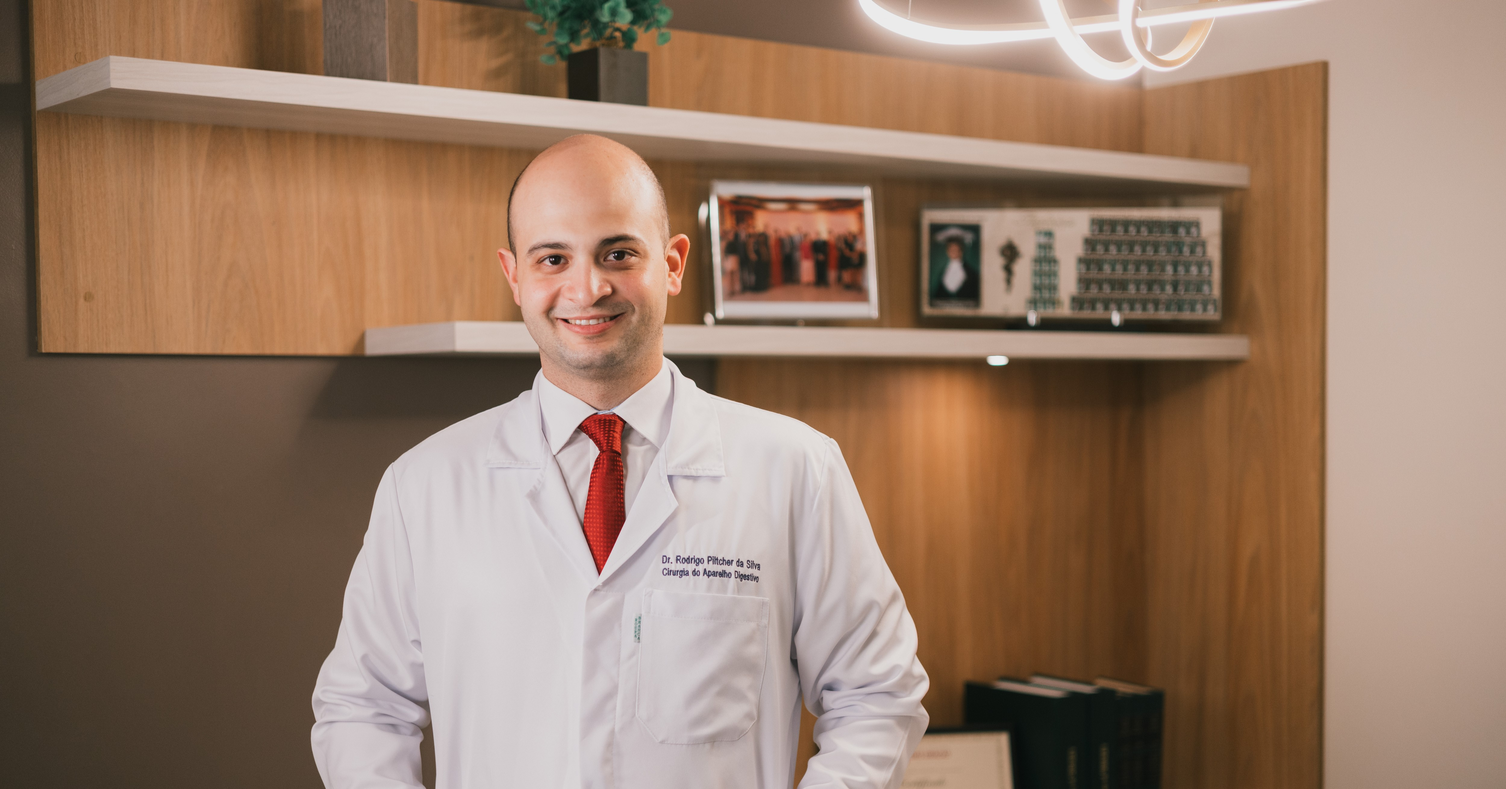
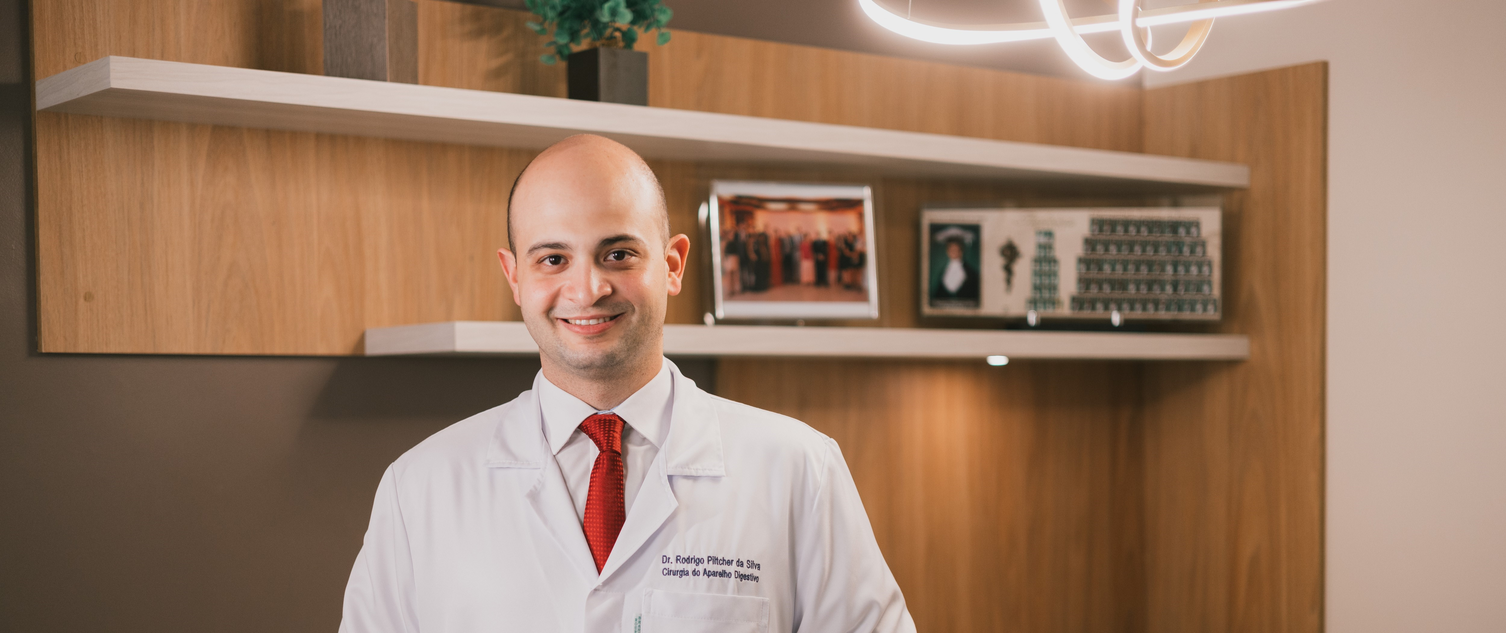
stopped at img3, pos content 2

diff --git a/resources/js/app.js b/resources/js/app.js
@@ -1,3 +1,19 @@
 import './bootstrap';
 
-console.log('teste');
+$(document).ready(function () {
+    $("#cirurOncoDigest").hide();
+    $("#herniaAbd").hide();
+    $("#robotico").show()
+    $("#cirurApaDigest").hide();
+})
+ 
+$('.grid-item').click(function () {
+    $("#cirurOncoDigest").hide();
+    $("#herniaAbd").hide();
+    $("#robotico").hide()
+    $("#cirurApaDigest").hide();
+    
+    let idClicado = $(this).attr('for');
+
+    $('#'+idClicado).fadeIn();
+})

diff --git a/vite.config.js b/vite.config.js
@@ -4,7 +4,10 @@ import laravel from 'laravel-vite-plugin';
 export default defineConfig({
     plugins: [
         laravel({
-            input: ['resources/css/app.css', 'resources/js/app.js'],
+            input: [
+            'resources/css/app.css', 
+            'resources/js/app.js',
+            ],
             refresh: true,
         }),
     ],

diff --git a/resources/views/mainView.blade.php b/resources/views/mainView.blade.php
@@ -4,27 +4,244 @@
 
 @section('fotos-passando')
 
-    <div class="container-fluid" style="border: 1px solid blue">
-        <div id="mainSlider" class="carousel slide" data-ride="carousel">
-            <ol class="carousel-indicators">
-                <li data-target="#mainSlider" data-slide-to="0" class="active"></li>
-                <li data-target="#mainSlider" data-slide-to="1"></li>
-                <li data-target="#mainSlider" data-slide-to="2"></li>
-                <li data-target="#mainSlider" data-slide-to="3"></li>
-                <li data-target="#mainSlider" data-slide-to="4"></li>
-                <li data-target="#mainSlider" data-slide-to="5"></li>
-            </ol>
+<div id="carouselExampleControls" id="myCarousel" class="carousel slide" data-bs-ride="carousel" data-bs-interval="7000">
+  <div class="carousel-inner">
 
-            <div class="carousel-inner">
-                <div class="carousel-item active">
-                    <img class="d-block w-100 " src="{{ Vite::asset('resources/images/fotospassando/img5') }}" alt="">
-                </div>
-            </div>
-        </div>
+    <div class="carousel-item">
+      <img class="d-block w-100" src="{{ Vite::asset('resources/images/fotospassando/cirRob1.png') }}" alt="First slide">
     </div>
+
+    <div class="carousel-item active">
+      <img class="d-block w-100" src="{{ Vite::asset('resources/images/fotospassando/img3edit.jpg') }}" alt="Second slide">
+    </div>
+
+    <div class="carousel-item">
+      <img class="d-block w-100" src="{{ Vite::asset('resources/images/fotospassando/geralRob.jpg') }}" alt="Third slide">
+    </div>
+
+    <div class="carousel-item">
+      <img class="d-block w-100" src="{{ Vite::asset('resources/images/fotospassando/labar2.jpg') }}" alt="Forth slide">
+    </div>
+
+    <div class="carousel-item">
+      <img class="d-block w-100" src="{{ Vite::asset('resources/images/fotospassando/img8edit.jpg') }}" alt="Fifth slide">
+    </div>
+
+    <div class="carousel-item">
+      <img class="d-block w-100" src="{{ Vite::asset('resources/images/fotospassando/labaro.jpg') }}" alt="Sixth slide">
+    </div>
+
+  </div>
+
+  <button class="carousel-control-prev" data-bs-target="#carouselExampleControls" type="button" data-bs-slide="prev">
+    <span class="carousel-control-prev-icon" aria-hidden="true"></span>
+    <span class="sr-only">Previous</span>
+  </button>
+
+  <button class="carousel-control-next" data-bs-target="#carouselExampleControls" type="button" data-bs-slide="next">
+    <span class="carousel-control-next-icon" aria-hidden="true"></span>
+    <span class="sr-only">Next</span>
+  </button>
+</div>
 
 @endsection
 
+@section('primeiro-conteudo')
+  <div class="shadow">
+    <div class="general-content container">
+        <div class="content">
+          <img src="{{ Vite::asset('resources/images/fotospassando/flatimg2.jpg') }}" alt="foto-dr.rodrigo">
+          <div class="text">
+            <p class="title-1-content">Dr. Rodrigo Piltcher</p>
+            <p>Lorem Ipsum is simply dummy text of the printing and typesetting industry. Lorem Ipsum has been the industry's standard dummy text ever since the 1500s, when an unknown printer took a galley of type and scrambled it to make a type specimen book. It has survived not only five centuries, but also the leap into electronic typesetting, remaining essentially unchanged. It was popularised in the 1960s with the release of Letraset sheets containing Lorem Ipsum passages, and more recently with desktop publishing software like Aldus PageMaker including versions of Lorem Ipsum.</p>
+            </br>
+            <p>Lorem Ipsum is simply dummy text of the printing and typesetting industry. Lorem Ipsum has been the industry's standard dummy text ever since the 1500s, when an unknown printer took a galley of type and scrambled it to make a type specimen book. It has survived not only five centuries, but also the leap into electronic typesetting, remaining essentially unchanged. It was popularised in the 1960s with the release of Letraset sheets containing Lorem Ipsum passages, and more recently with desktop publishing software like Aldus PageMaker including versions of Lorem Ipsum.</p>
+          </div>
+        </div>
+    </div>
+  </div>
+@endsection
+
+@section('primeira-foto')
+  <div class="general-content content-2">
+      <img src="{{ Vite::asset('resources/images/fotospassando/img6.jpg') }}" alt="foto-dr.rodrigo">
+  </div>
+@endsection
+
+@section('segundo-conteudo')
+  <div>
+    <div class="general-content container">
+        <p class="title-1-content espec">Especialidades</p>
+        <div class="grid-center">
+          <div class="content-second grid">
+            <img for="cirurApaDigest" class="grid-item" src="{{ Vite::asset('resources/images/aparelhodigest.png') }}" alt="aparelho-digestivo">
+            <img for="cirurOncoDigest" class="grid-item" src="{{ Vite::asset('resources/images/oncolog.png') }}" alt="aparelho-digestivo">
+            <img for="herniaAbd" class="grid-item" src="{{ Vite::asset('resources/images/hernia.png') }}" alt="aparelho-digestivo">
+            <img for="robotico" class="grid-item" src="{{ Vite::asset('resources/images/robotica.png') }}" alt="aparelho-digestivo">
+          </div>
+          <div id="textos">
+              <div id="cirurApaDigest" class="text-2">
+                <p class="title-2-content">Cirurgia do aparelho digestivo</p>
+                <p>Lorem Ipsum is simply dummy text of the printing and typesetting industry. Lorem Ipsum has been the industry's standard dummy text ever since the 1500s, when an unknown printer took a galley of type and scrambled it to make a type specimen book. It has survived not only five centuries, but also the leap into electronic typesetting, remaining essentially unchanged. It was popularised in the 1960s with the release of Letraset sheets containing Lorem Ipsum passages, and more recently with desktop publishing software like Aldus PageMaker including versions of Lorem Ipsum.</p>
+                </br>
+                <p>Lorem Ipsum is simply dummy text of the printing and typesetting industry. Lorem Ipsum has been the industry's standard dummy text ever since the 1500s, when an unknown printer took a galley of type and scrambled it to make a type specimen book. It has survived not only five centuries, but also the leap into electronic typesetting, remaining essentially unchanged. It was popularised in the 1960s with the release of Letraset sheets containing Lorem Ipsum passages, and more recently with desktop publishing software like Aldus PageMaker including versions of Lorem Ipsum.</p>
+              </div>
+              <div id="cirurOncoDigest" class="text-2">
+                <p class="title-2-content">Cirurgia oncológica digestiva</p>
+                <p>Lorem Ipsum is simply dummy text of the printing and typesetting industry. Lorem Ipsum has been the industry's standard dummy text ever since the 1500s, when an unknown printer took a galley of type and scrambled it to make a type specimen book. It has survived not only five centuries, but also the leap into electronic typesetting, remaining essentially unchanged. It was popularised in the 1960s with the release of Letraset sheets containing Lorem Ipsum passages, and more recently with desktop publishing software like Aldus PageMaker including versions of Lorem Ipsum.</p>
+                </br>
+                <p>Lorem Ipsum is simply dummy text of the printing and typesetting industry. Lorem Ipsum has been the industry's standard dummy text ever since the 1500s, when an unknown printer took a galley of type and scrambled it to make a type specimen book. It has survived not only five centuries, but also the leap into electronic typesetting, remaining essentially unchanged. It was popularised in the 1960s with the release of Letraset sheets containing Lorem Ipsum passages, and more recently with desktop publishing software like Aldus PageMaker including versions of Lorem Ipsum.</p>
+              </div>
+              <div id="herniaAbd" class="text-2">
+                <p class="title-2-content">Hérnias abdominais</p>
+                <p>Lorem Ipsum is simply dummy text of the printing and typesetting industry. Lorem Ipsum has been the industry's standard dummy text ever since the 1500s, when an unknown printer took a galley of type and scrambled it to make a type specimen book. It has survived not only five centuries, but also the leap into electronic typesetting, remaining essentially unchanged. It was popularised in the 1960s with the release of Letraset sheets containing Lorem Ipsum passages, and more recently with desktop publishing software like Aldus PageMaker including versions of Lorem Ipsum.</p>
+                </br>
+                <p>Lorem Ipsum is simply dummy text of the printing and typesetting industry. Lorem Ipsum has been the industry's standard dummy text ever since the 1500s, when an unknown printer took a galley of type and scrambled it to make a type specimen book. It has survived not only five centuries, but also the leap into electronic typesetting, remaining essentially unchanged. It was popularised in the 1960s with the release of Letraset sheets containing Lorem Ipsum passages, and more recently with desktop publishing software like Aldus PageMaker including versions of Lorem Ipsum.</p>
+              </div>
+              <div id="robotico" class="text-2">
+                <p class="title-2-content">Videolabaroscopia e Cirurgia Robótica</p>
+                <p>Lorem Ipsum is simply dummy text of the printing and typesetting industry. Lorem Ipsum has been the industry's standard dummy text ever since the 1500s, when an unknown printer took a galley of type and scrambled it to make a type specimen book. It has survived not only five centuries, but also the leap into electronic typesetting, remaining essentially unchanged. It was popularised in the 1960s with the release of Letraset sheets containing Lorem Ipsum passages, and more recently with desktop publishing software like Aldus PageMaker including versions of Lorem Ipsum.</p>
+                </br>
+                <p>Lorem Ipsum is simply dummy text of the printing and typesetting industry. Lorem Ipsum has been the industry's standard dummy text ever since the 1500s, when an unknown printer took a galley of type and scrambled it to make a type specimen book. It has survived not only five centuries, but also the leap into electronic typesetting, remaining essentially unchanged. It was popularised in the 1960s with the release of Letraset sheets containing Lorem Ipsum passages, and more recently with desktop publishing software like Aldus PageMaker including versions of Lorem Ipsum.</p>
+              </div>
+          </div>
+        </div>
+    </div>
+  </div>
+@endsection
+
 @section('style')
+
+    .title-2-content{
+      font-size: 24px;
+      font-style: italic;
+      font-weight: 400;
+      line-height: normal;
+      letter-spacing: 4px;
+    }
+
+    .text-2{
+      margin-left: 35px;
+
+      text-align: center;
+
+      width: 100%;
+      height: 430px;
+
+    }
+
+    .espec{
+      margin-top:20px;
+    }
+
+    .content-second {
     
+      height: 450px;
+      width: 40%;
+      
+      position: relative;
+      
+      align-items: center;
+      display: flex;
+      justify-content: center;
+
+      margin-left: 100px;
+      padding-bottom: 20px;
+      
+
+    }
+
+    .grid-item{
+      width: 85%;
+      height: 200px;
+      box-sizing: border-box;
+    }
+
+    .grid-item:hover{
+        opacity: 70%;
+        cursor: pointer;
+    }
+
+    .grid{
+      display: grid;
+      grid-template-columns: 200px 200px;
+      grid-row: auto auto;
+      gap: 30px; /* Espaçamento entre os elementos */
+    }
+
+    .grid-center {
+      align-items: center;
+      display: flex;
+    }
+
+
+    .content-2 img{
+      width: 100%;
+      height: 600px;
+    }
+
+    .text{
+      margin-left: 35px;
+
+      text-align: center;
+
+      width: 70%;
+      height: 400px;
+
+    }
+
+    .title-1-content{
+      font-size: 32px;
+      font-style: italic;
+      font-weight: 600;
+      line-height: normal;
+      letter-spacing: 4px;
+    }
+
+    .general-content{
+      height: 600px;
+      width: 100%;
+
+      position: relative;
+      
+    }
+
+    .content {
+
+      height: 500px;
+      width: 85%;
+
+      position: relative;
+      top: 50%;
+      left: 50%;
+      transform: translate(-50%, -50%);
+
+      align-items: center;
+      display: flex;
+    }
+
+    .content img{
+      width: 25%;
+      height: 390px;
+
+      border: 2px solid black   ;
+    }
+
+    .carousel-item{
+      width: 100%;
+      height: 450px;
+      overflow: hidden;
+      position: relative;
+    }
+
+    .carousel-item img {
+      width: 100%;
+      height: auto;
+      position: absolute;
+
+      top: 50%;
+      left: 50%;
+      transform: translate(-50%, -50%);
+
+    }
 @endsection

diff --git a/resources/views/layout/main.blade.php b/resources/views/layout/main.blade.php
@@ -22,16 +22,24 @@
     </div>
 </div>
 
-<main style="border: 1px solid red">
     @yield('fotos-passando')
-</main>
+
+    @yield('primeiro-conteudo')
+
+    @yield('primeira-foto')
+
+    @yield('segundo-conteudo')
 
 <footer>
     <div class="footerdiv">
         <p>© 2023 Doutor Rodrigo Piltcher. Todos os direitos reservados.
-        <br/>CRM-RS: XXXXX</p>
+        <br/>CRM-RS: 46401</p>
     </div>
 </footer>
+
+<script src="https://cdn.jsdelivr.net/npm/bootstrap@5.3.2/dist/js/bootstrap.bundle.min.js" integrity="sha384-C6RzsynM9kWDrMNeT87bh95OGNyZPhcTNXj1NW7RuBCsyN/o0jlpcV8Qyq46cDfL" crossorigin="anonymous"></script>
+<script src="https://code.jquery.com/jquery-3.6.4.min.js"></script>
+
 
 <style>
     * {
@@ -42,8 +50,7 @@
 /* CSS DA PRIMEIRA NAV BAR (AZUL ESCURO) */
     body{
         overflow-y: visible;
-        height: 100vh;
-        width: 100vw;
+
     }
 
     .footerdiv p{
@@ -95,12 +102,14 @@
         align-items:  center;
         height: 70px;
         align-items: flex-start;
-        background: #184BFF;
+        background: #001a66;
+        /*background: #002080;*/
     }
 
     footer{
-        background: #184BFF;
-        position: absolute;
+        background: #001a66;
+        /*background: #002080;*/
+        position: fixed;
         bottom:0;
         width:100%;
         height: 50px;
